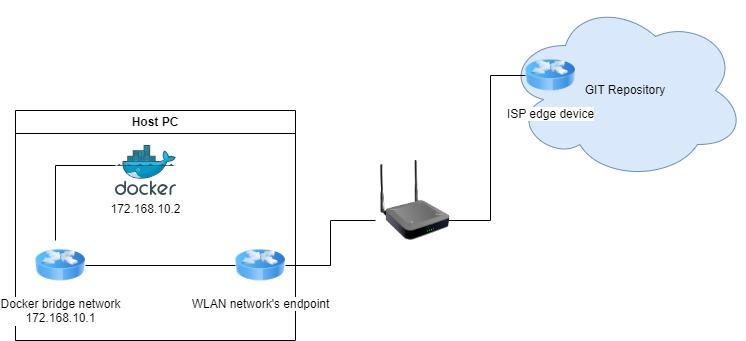
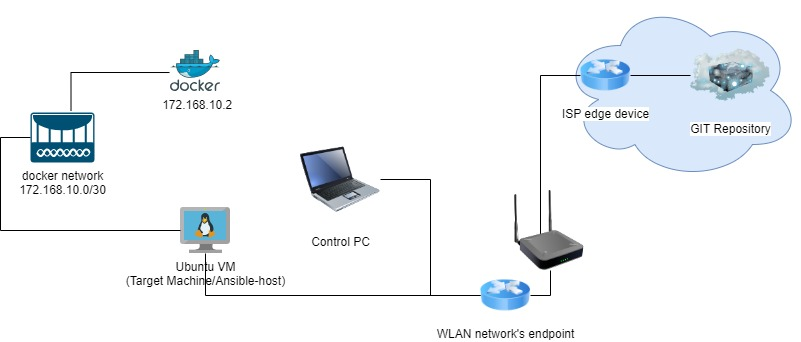
add network diagrams

diff --git a/README.md b/README.md
@@ -21,7 +21,7 @@ How it works
 Note: the instructions based on how it work on your Ubuntu PC
 1. Clone the repository to your local PC using 'git clone'. this is the control PC for executing the ansible script.
 2. Update the main branch using 'git pull' command. 
-3. Prepare the host PCs deployment environment
+3. Prepare the Control PCs deployment environment
     a. install python 3 (sudo apt install python3)
     b. install python package manager pip (sudo apt install python3-pip)
     c. install ansible (pip3 install ansible), try sudo apt install ansible if this not work
